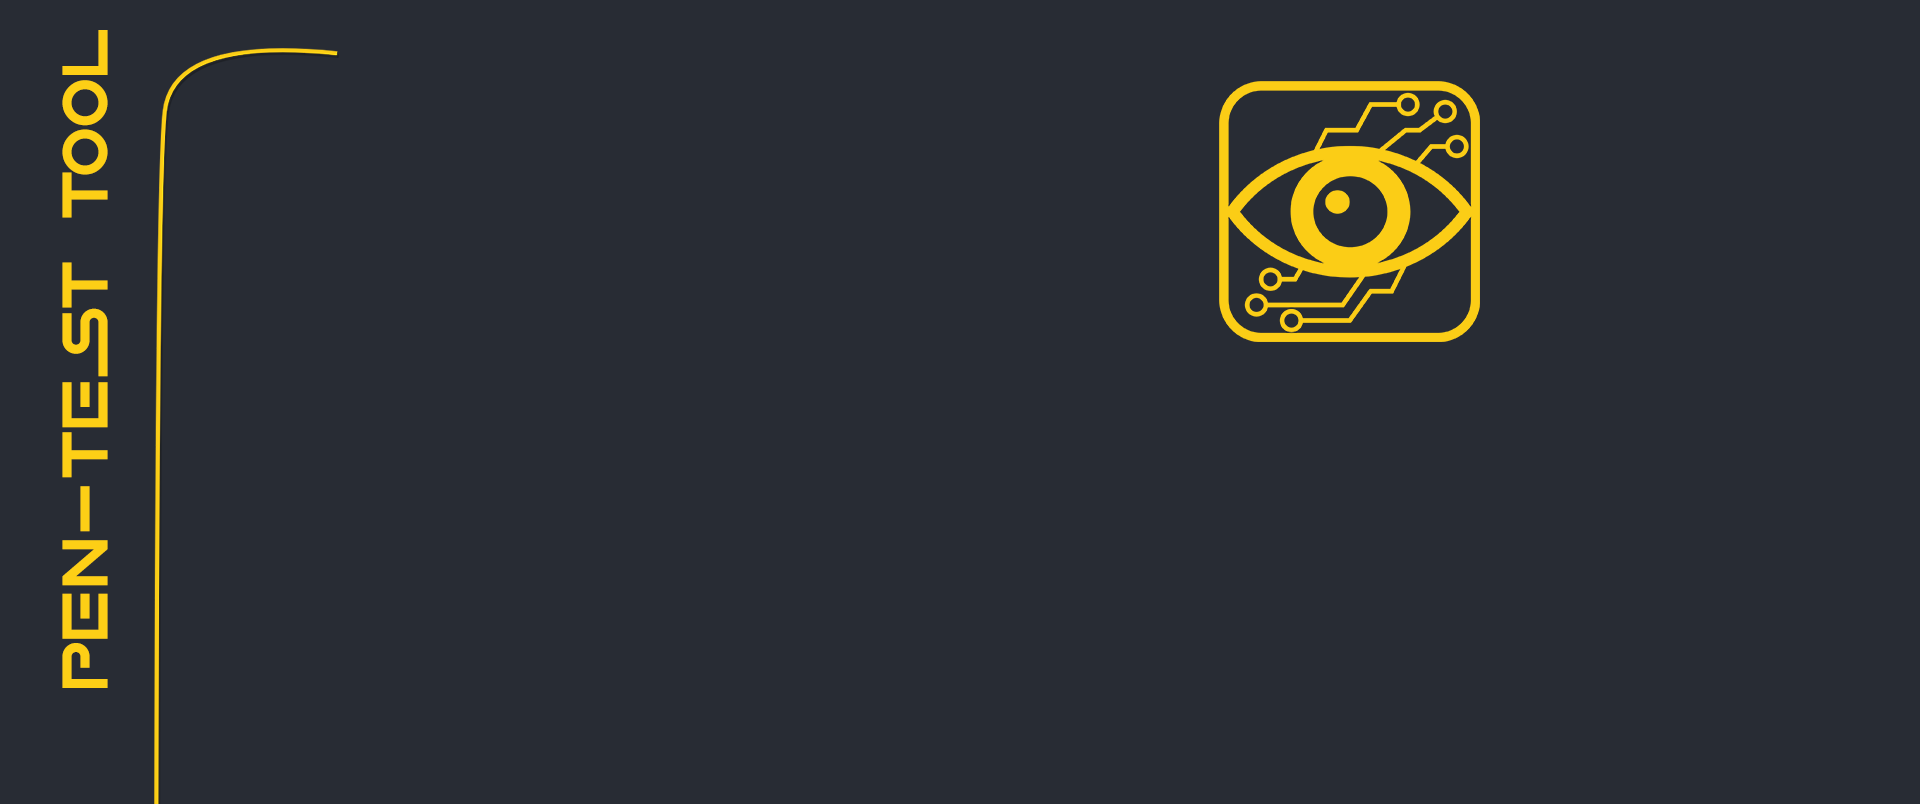
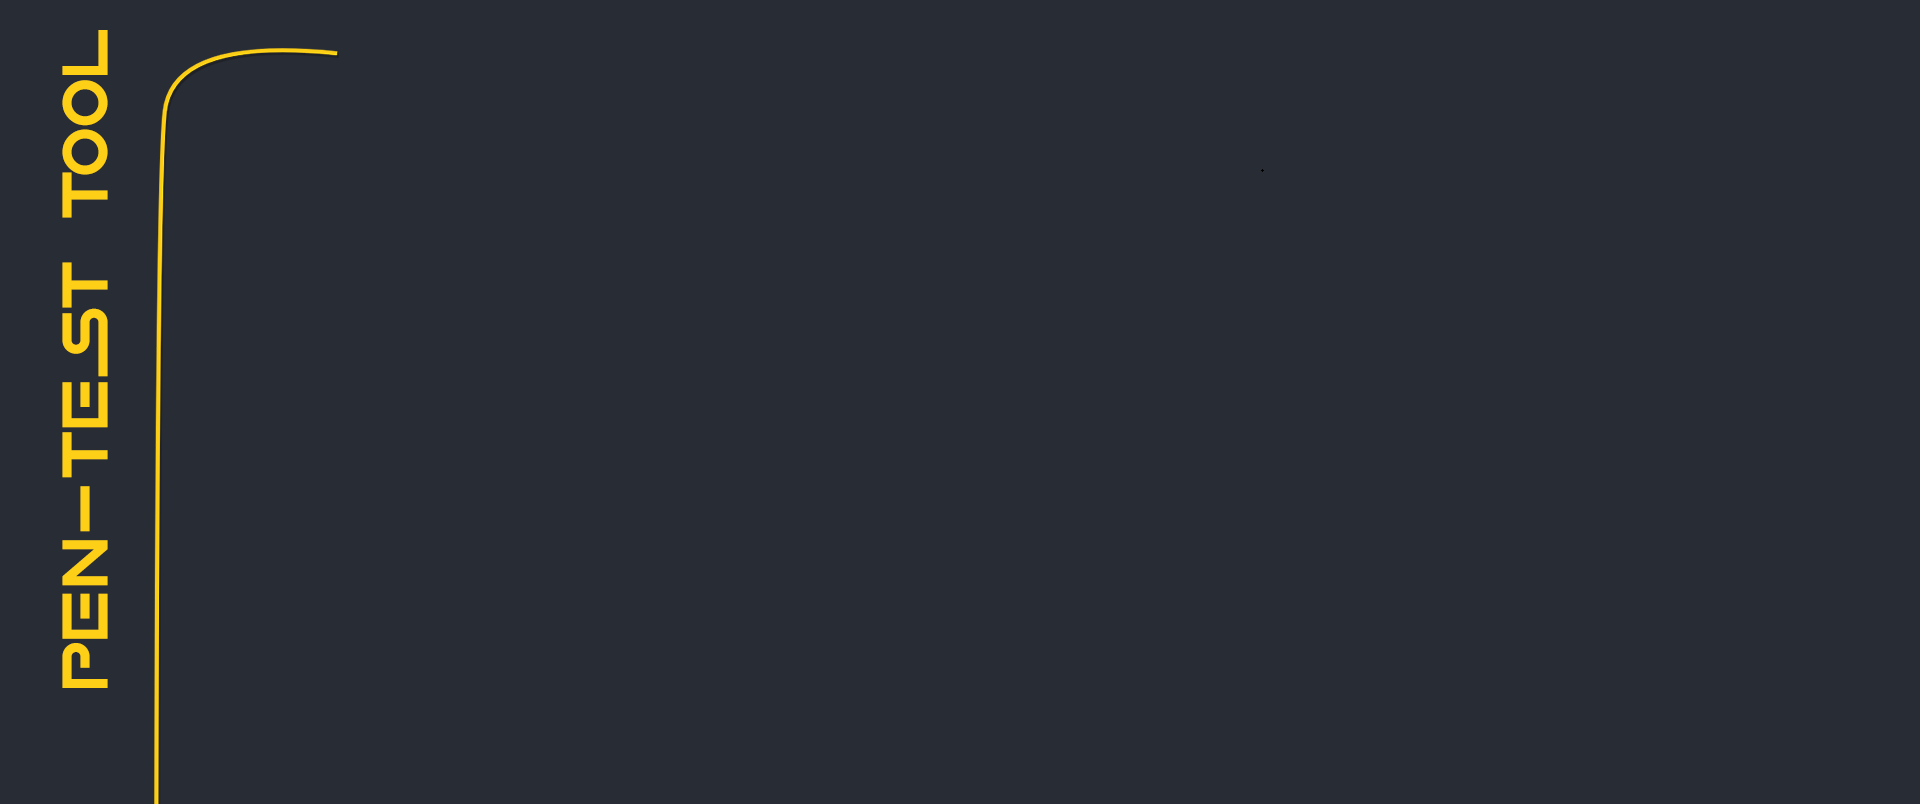
Signed-off-by: danSliwa <daniel.sliwa96@gmail.com>

Changed region(s): [[0.625, 0.0933, 0.7812, 0.4353]]

diff --git a/src/App.jsx b/src/App.jsx
@@ -21,7 +21,7 @@ import OffCanvasConsole from './components/OffCanvasConsole/OffCanvasConsole';
 import MainMQTT from './core/MainMQTT';
 import { useEffect } from 'react';
 import { useSelector } from 'react-redux';
-import Logo from './assets/images/nettrainer_logo_smaller.png'
+import {ReactComponent as Logo} from './assets/images/ntst_logo.svg'
 const mqttData = require('./assets/MQTT_Topics');
 const connectionStatuses = require('./store/ConnectionStatusOptions');
 
@@ -34,15 +34,15 @@ function App(state) {
   appClient.subscribe(mqttData.LOG_TRANSFER.logTopic);
   appClient.on('message', (topic, payload, packet) => { setLog(payload.toString()); });
 
-  const [grayOutButton, setGrayOutButton] = useState(false);
+  const [connectedToNTST, setConnectedToNTST] = useState(false);
   const connStatus = useSelector(state => state.connectionStatus.connectionStatus);
 
   useEffect(() => {
     console.log("USEEFFECT: ", connStatus);
     if (connStatus === connectionStatuses.CONNECTED) {
-      setGrayOutButton(true);
+      setConnectedToNTST(true);
     } else {
-      setGrayOutButton(false);
+      setConnectedToNTST(false);
     }
   }, [connStatus])
 
@@ -59,7 +59,7 @@ function App(state) {
       <body className="App">
         <div className='Background-stack'>
           <div>
-            <img src={Logo} alt="BigCo Inc. logo" className='Big-logo'/>
+            <Logo className={connectedToNTST ? 'Big-logo' : 'Big-logo-offline'}/>
           </div>
           <div className='Animated-bg'></div>
           <div className='Static-bg'></div>
@@ -82,7 +82,7 @@ function App(state) {
 
             {/* OffCanvas Terminal part */}
             <button
-              className={grayOutButton ? 'Terminal-button' : 'Terminal-button-disabled'}
+              className={connectedToNTST ? 'Terminal-button' : 'Terminal-button-disabled'}
               onClick={onShowTerminalButtonClick}
             >
               <BsTerminalFill className='Terminal-icon' />

diff --git a/src/App.css b/src/App.css
@@ -24,7 +24,7 @@
 }
 
 .Static-bg {
-  background-image: url('../src/assets/images/backgroundTransparent.png');
+  background-image: url('../src/assets/images/backgroundTransparent2.png');
   min-height: 100vh;
   background-repeat: no-repeat;
   background-attachment: scroll;
@@ -46,7 +46,7 @@
 
 .Terminal-icon {
   color: black;
-  vertical-align:middle;
+  vertical-align: middle;
 }
 
 .Terminal-button {
@@ -62,6 +62,7 @@
   left: 53em;
   transition-duration: 1.2s;
 }
+
 .Terminal-button:hover {
   clip-path: polygon(100% 0, 100% 100%, 0 100%, 0 0);
   border-radius: 5px;
@@ -91,12 +92,38 @@
   transition-duration: 1.2s;
 }
 
+.Big-logo-offline {
+  position: absolute;
+  top: 140px;
+  left: 1150px;
+  height: 40%;
+  width: 23%;
+  transition-duration: 3s;
+  margin-left: 20px;
+}
+
+.Big-logo-offline path {
+  stroke: rgba(221, 4, 4, 0.452);
+  stroke-width: 15px;
+  stroke-linejoin: bevel;
+  stroke-linecap: round;
+  transition-duration: 3s;
+  padding: auto;
+  margin-left: 20px;
+}
+
 .Big-logo {
   position: absolute;
-  height: 320px;
-  width: 380px;
-  color: red;
+  top: 140px;
+  left: 1150px;
+  height: 40%;
+  width: 23%;
+  transition-duration: 3s;
+  padding: auto;
+  margin-left: 20px;
 }
+
+
 
 /* ----------------------------------------------
  * Generated by Animista on 2022-8-20 14:7:3

diff --git a/src/routes/Menu.css b/src/routes/Menu.css
@@ -4,13 +4,11 @@
 }
 
 .MenuButtons {
-    background-color: red;
     height: 500px;
 }
 .Box{
     display: flex;
     flex-direction: column;
-    background-color: red;
 }
 .Not-connected {
     font-family: GoodTimes;
@@ -18,8 +16,8 @@
     text-shadow: -1px -1px 0 #000, 1px -1px 0 #000, -1px 1px 0 #000, 1px 1px 0 #000;
     font-size: 50px;
     flex: 0;
-    margin: 50 auto;
-    margin-top: 250px;
+    margin: 10 auto;
+    margin-top: 80px;
 }
 
 .Not-connected-info {
